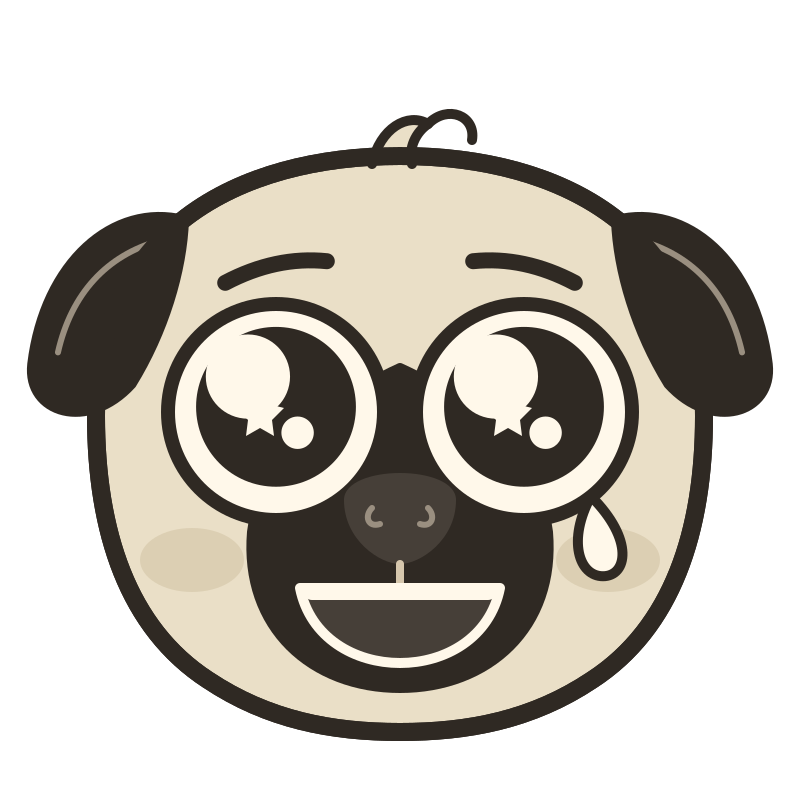
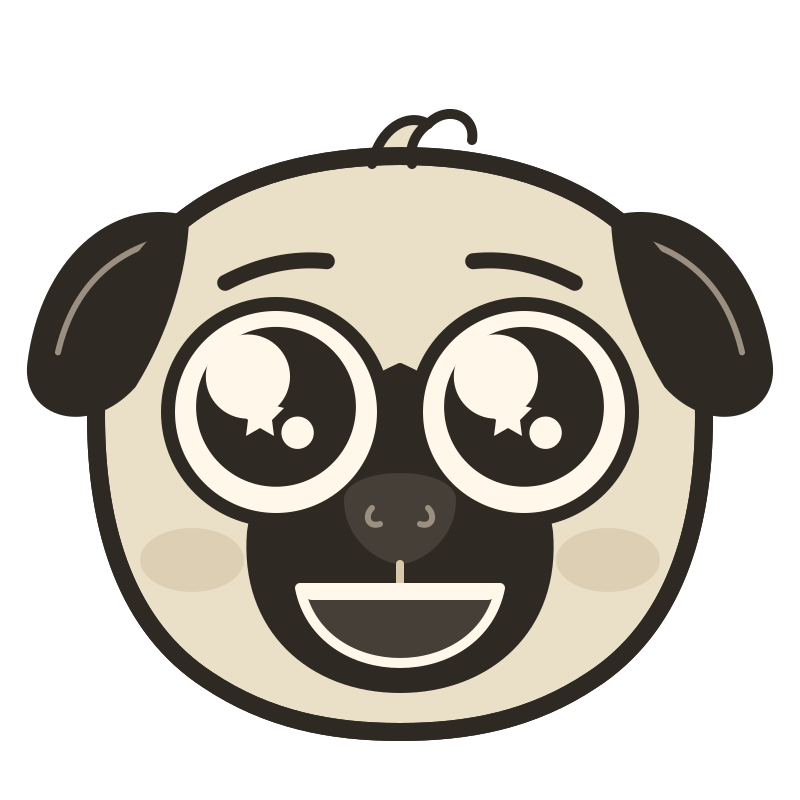
WS34 · D1.2 · card 1: las caras de Pipo cuadro por cuadro (orgullo sin lágrima · problema sospecha→fastidio · espejo y magia en orgullo · en_serio solo para 'algo se enciende' · el pícaro solo en el iris · cuadro 4 eliminado) + contratapa invertida ('Teo y Pipo volverán próximamente' grande, el bloq

Changed region(s): [[0.7188, 0.625, 0.7812, 0.75]]

diff --git a/Flipbook/motor/libro.py b/Flipbook/motor/libro.py
@@ -25,7 +25,7 @@ import subprocess
 import sys
 
 import yaml
-from PIL import Image, ImageDraw, ImageFont
+from PIL import Image, ImageDraw, ImageFilter, ImageFont
 
 sys.path.insert(0, os.path.dirname(os.path.abspath(__file__)))
 import render as R                       # noqa: E402  (helpers de la v1: papel, línea, libro)
@@ -527,7 +527,9 @@ def _posicion(spec, anclas_fondo, t):
 
 # ---------------------------------------------------------------- una hoja
 
-CARAS_ASOMA = {"problema": "fastidio", "espejo": "en_serio", "magia": "orgullo", "cartel": "alegria_sarcastica"}
+# Regla de caras (WS34): problema = sospecha → fastidio · espejo y magia = orgullo (alegría) ·
+# en_serio (duda) solo para "algo se enciende" · alegria_sarcastica (pícaro) solo en el iris.
+CARAS_ASOMA = {"problema": "fastidio", "espejo": "orgullo", "magia": "orgullo", "cartel": "alegria_sarcastica"}
 
 
 def hoja_de(m, cuadro, i, n, rng, desp=0.0):
@@ -682,16 +684,16 @@ def cuadros_magia(esc):
     c = [{"hojas": 9, "fondo": fondo1,
           "teo": dict(teo, cuerpo="sentado", cara="abajo_plana",
                       prop={"nombre": "telefono_0", "dx": 12, "dy": -34, "rot": -24}),
-          "pipo": dict(pipo, cara="sospecha"),
+          "pipo": dict(pipo, cara="en_serio"),
           "props": [{"nombre": "nube_garabatos", "x": 600, "y": 530, "escala": 2.0,
                      "disolucion": 0.0, "hacia_disolucion": 0.45}]},
          {"hojas": 7, "zoom": {"pieza": "props/telefono_1", "escala": 2.7, "rot": -12, "manos": True,
                                "ciclo": ["telefono_1", "telefono_2", "telefono_3", "telefono_2"]},
-          "pipo_dice": txt["enciende"], "pipo_asoma": {"lado": "izquierda", "cara": "sospecha"}},
+          "pipo_dice": txt["enciende"], "pipo_asoma": {"lado": "izquierda", "cara": "en_serio"}},
          {"hojas": 14, "fondo": fondo1,
           "teo": dict(teo, cuerpo="sentado_erguido", cara="frente_sonrisa",
                       prop={"ciclo": ["telefono_2", "telefono_3"], "nombre": "telefono_3", "dx": 12, "dy": -34, "rot": -24}),
-          "pipo": dict(pipo, cara="sospecha"),
+          "pipo": dict(pipo, cara="en_serio"),
           "props": [{"nombre": "nube_garabatos", "x": 600, "y": 530, "escala": 2.0,
                      "disolucion": 0.45, "hacia_disolucion": 1.0}],
           "pipo_dice": txt["enciende"]}]
@@ -707,7 +709,7 @@ def cuadros_magia(esc):
         c.append({"hojas": 26, "fondo": esc.get("fondo_accion", "calle"), "parallax": 26,
                   "teo": dict(teo, cuerpo="camina", ciclo=True, cara="costado_sonrisa", x=400, y=1120,
                               aura="sube", pulso=True),
-                  "pipo": {"cuerpo": "camina", "ciclo": True, "fase": 2, "cara": "alegria_sarcastica",
+                  "pipo": {"cuerpo": "camina", "ciclo": True, "fase": 2, "cara": "orgullo",
                            "x": 790, "y": 1290, "escala": 0.7},
                   "pipo_dice": txt["pasea"]})
 
@@ -828,8 +830,8 @@ def cartel(g, m, i, n, rng):
 
 # ---------------------------------------------------------------- C · el cierre fijo
 
-TEXTOS_CONTRATAPA = ["Dwellia", "una Pausa al día, fuera del teléfono",
-                     "Teo y Pipo volverán próximamente", "link en la bio"]
+TEXTOS_CONTRATAPA = ["Teo y Pipo volverán", "próximamente",
+                     "Dwellia", "una Pausa al día, fuera del teléfono", "link en la bio"]
 
 
 CARA_CIERRE, ESC_CIERRE, POS_CIERRE, PIVOTE_CIERRE = "cara_alegria_sarcastica", 2.15, (R.W / 2, 1010), (200, 210)
@@ -865,16 +867,34 @@ def frames_iris(base, cx, cy, cuantos):
     return fuera
 
 
+def aro_dwellia(im, cx, cy, r, rng):
+    """El símbolo de Dwellia (WS34): un aro salvia claro con un halo suave alrededor, el mismo
+    lenguaje que el aura de Teo y la calma-como-halo del onboarding. Reemplaza al rombo provisorio."""
+    halo = Image.new("RGBA", im.size, (0, 0, 0, 0))
+    hd = ImageDraw.Draw(halo)
+    for k, (dr, a) in enumerate(((r * 0.95, 70), (r * 0.65, 55), (r * 0.35, 40))):
+        hd.ellipse((cx - r - dr, cy - r - dr, cx + r + dr, cy + r + dr), fill=R.SAGE_LIGHT + (a,))
+    halo = halo.filter(ImageFilter.GaussianBlur(r * 0.45))
+    im.paste(halo, (0, 0), halo)
+    d = ImageDraw.Draw(im)
+    R.circle(d, cx, cy, r, rng, width=max(6, int(r * 0.16)), color=R.IVORY, amp=1.2)
+    R.circle(d, cx, cy, r * 0.62, rng, width=max(3, int(r * 0.06)), color=mezcla(R.SAGE_DEEP, R.IVORY, 0.55), amp=1.0)
+
+
 def contratapa(rng):
-    """C3: hoja salvia con los cuatro textos en crema/marfil. Fija para todos los volúmenes."""
+    """C3: hoja salvia. Primero y GRANDE "Teo y Pipo volverán próximamente"; abajo y más chico el
+    bloque de Dwellia con el aro (WS34, orden invertido por Tomás). Fija para todos los volúmenes."""
     im = R.paper(rng, base=R.SAGE_DEEP)
     d = ImageDraw.Draw(im)
     d.rounded_rectangle((80, 120, R.W - 80, R.H - 120), 30, outline=mezcla(R.SAGE_DEEP, R.CREAM, 0.45), width=5)
-    R.leaf(d, R.W / 2, 760, rng, s=1.5)
-    d.text((R.W / 2, 990), TEXTOS_CONTRATAPA[0], fill=R.IVORY, font=R.font(112, bold=True), anchor="mm")
-    d.text((R.W / 2, 1092), TEXTOS_CONTRATAPA[1], fill=R.CREAM, font=R.font(44), anchor="mm")
-    d.text((R.W / 2, 1300), TEXTOS_CONTRATAPA[2], fill=R.IVORY, font=R.font(50), anchor="mm")
-    d.text((R.W / 2, 1660), TEXTOS_CONTRATAPA[3], fill=mezcla(R.SAGE_DEEP, R.CREAM, 0.78), font=R.font(40), anchor="mm")
+    d.text((R.W / 2, 560), TEXTOS_CONTRATAPA[0], fill=R.IVORY, font=font_que_entra(d, TEXTOS_CONTRATAPA[0], 880, 108, condensada=False), anchor="mm")
+    d.text((R.W / 2, 690), TEXTOS_CONTRATAPA[1], fill=R.IVORY, font=font_que_entra(d, TEXTOS_CONTRATAPA[1], 880, 108, condensada=False), anchor="mm")
+    R.stroke(d, [(400, 840), (680, 840)], rng, width=4, color=mezcla(R.SAGE_DEEP, R.CREAM, 0.5), amp=1.2)
+    aro_dwellia(im, R.W / 2, 1120, 78, rng)
+    d = ImageDraw.Draw(im)
+    d.text((R.W / 2, 1300), TEXTOS_CONTRATAPA[2], fill=R.IVORY, font=R.font(84, bold=True), anchor="mm")
+    d.text((R.W / 2, 1385), TEXTOS_CONTRATAPA[3], fill=R.CREAM, font=R.font(40), anchor="mm")
+    d.text((R.W / 2, 1660), TEXTOS_CONTRATAPA[4], fill=mezcla(R.SAGE_DEEP, R.CREAM, 0.78), font=R.font(38), anchor="mm")
     return im
 
 

diff --git a/Flipbook/motor/partes.py b/Flipbook/motor/partes.py
@@ -190,8 +190,8 @@ CARAS_PIPO = {
     # 5. alegría sarcástica ("te lo dije"): guiño, sonrisa engreída de costado, lengua afuera, ladeada
     "alegria_sarcastica": dict(cejas=(-8, 18), cejas_y=(142, 150), tilt=-16, guino=1, ojos=(52, 52), parpado_abajo=(0.2, 0.0),
                                boca="torcida", lengua=True, mirada=(0.35, -0.15), orejas=(0.1, 0.5)),
-    # 6. orgullo: ojos enormes con estrellas y una lágrima, boca abierta de alegría, orejas relajadas
-    "orgullo": dict(cejas=(-12, -12), cejas_y=(136, 136), ojos=(54, 54), brillo=1.5, estrellas=True, lagrima=True,
+    # 6. orgullo (la Alegría de Tomás, WS34): ojos enormes con estrellas, SIN lágrima, boca abierta de alegría, orejas relajadas
+    "orgullo": dict(cejas=(-12, -12), cejas_y=(136, 136), ojos=(54, 54), brillo=1.5, estrellas=True, lagrima=False,
                     boca="sonrisa_abierta", mirada=(0.0, -0.15), orejas=(0.4, 0.4)),
 }
 

diff --git a/WS/WS34_08-09-2026.md b/WS/WS34_08-09-2026.md
@@ -1,0 +1,30 @@
+# WS34 · 08/09/2026 · Bloque D — D1.2: los retoques de Tomás + B1 → cierre de D1.2
+
+Contexto al abrir: la fábrica validada (WS33 §3, "muy bien encaminado"). `main` limpio. Plan
+de la sesión, una card por turno, sin agentes (son ajustes de números y guion):
+(1) a+c caras de Pipo + cierre invertido · (2) b el tempo, con video · (3) B1 Teo y Pipo a lo
+Tintín para el cartel · (4) cierre de D1.2 (docs) → D2 empieza por Vínculos.
+
+## 1. Card 1 · a) las caras de Pipo cuadro por cuadro + c) el cierre invertido con el aro
+
+**a) Caras.** Aplicada la tabla de la WS33 §4:
+- `partes.py`: `orgullo` SIN lágrima (`lagrima=False`); regenerar piezas solo tocó
+  `cara_orgullo.{svg,png}` (rsvg es determinista, el resto quedó idéntico).
+- `vol00_prueba.yaml`: problema 1-2 = `sospecha`, el zoom asoma con `fastidio`, **el cuadro 4
+  eliminado** (del zoom se pasa directo al espejo); espejo 4-6 = `orgullo`. Regla anotada
+  arriba de las escenas.
+- `libro.py`: el momento 1 de la magia (rincón · zoom · se endereza) va en `en_serio` (Duda);
+  la variante `pasea` lleva `orgullo` (era `alegria_sarcastica`); `CARAS_ASOMA` espejo →
+  `orgullo`. `alegria_sarcastica` queda SOLO en el iris del cierre y en el cartel provisorio.
+- Vol. 0 pasa de 13 a **12 cuadros · 196 hojas · 19,6 s de historia**.
+
+**c) Contratapa.** Misma hoja salvia, orden invertido: primero y GRANDE "Teo y Pipo volverán /
+próximamente" (dos líneas, serif 108), una rayita, y abajo el bloque Dwellia más chico:
+**el aro** (`aro_dwellia()`: aro marfil con un aro interior fino y un halo salvia claro
+difuminado; mismo lenguaje que el aura de Teo y la "calma como halo" del onboarding),
+"Dwellia" (84 bold), "una Pausa al día, fuera del teléfono", "link en la bio". Se fue el rombo
+(`R.leaf`). ⚠ El aro es una propuesta de Claude: el ícono de la app es una "D" itálica y no
+había un aro dibujado en el repo; si Tomás tiene otro símbolo, va a `Tiktok/Ideas/` y se
+reemplaza el cuerpo de `aro_dwellia()`.
+
+Revisión: `vol00_prueba_cuadros.png` regenerada (sin video: el tempo es la card 2).
